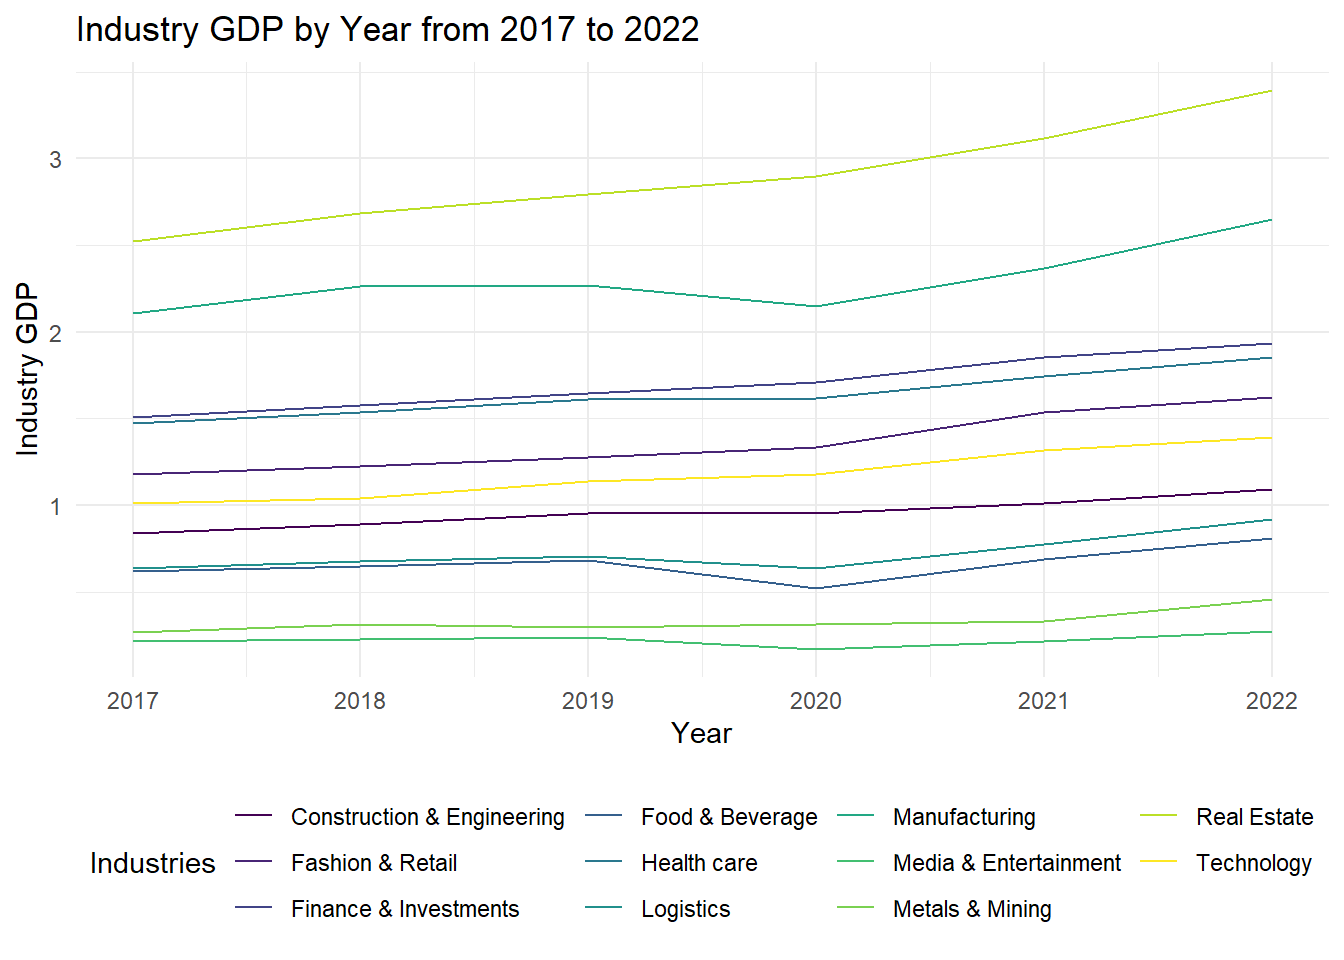
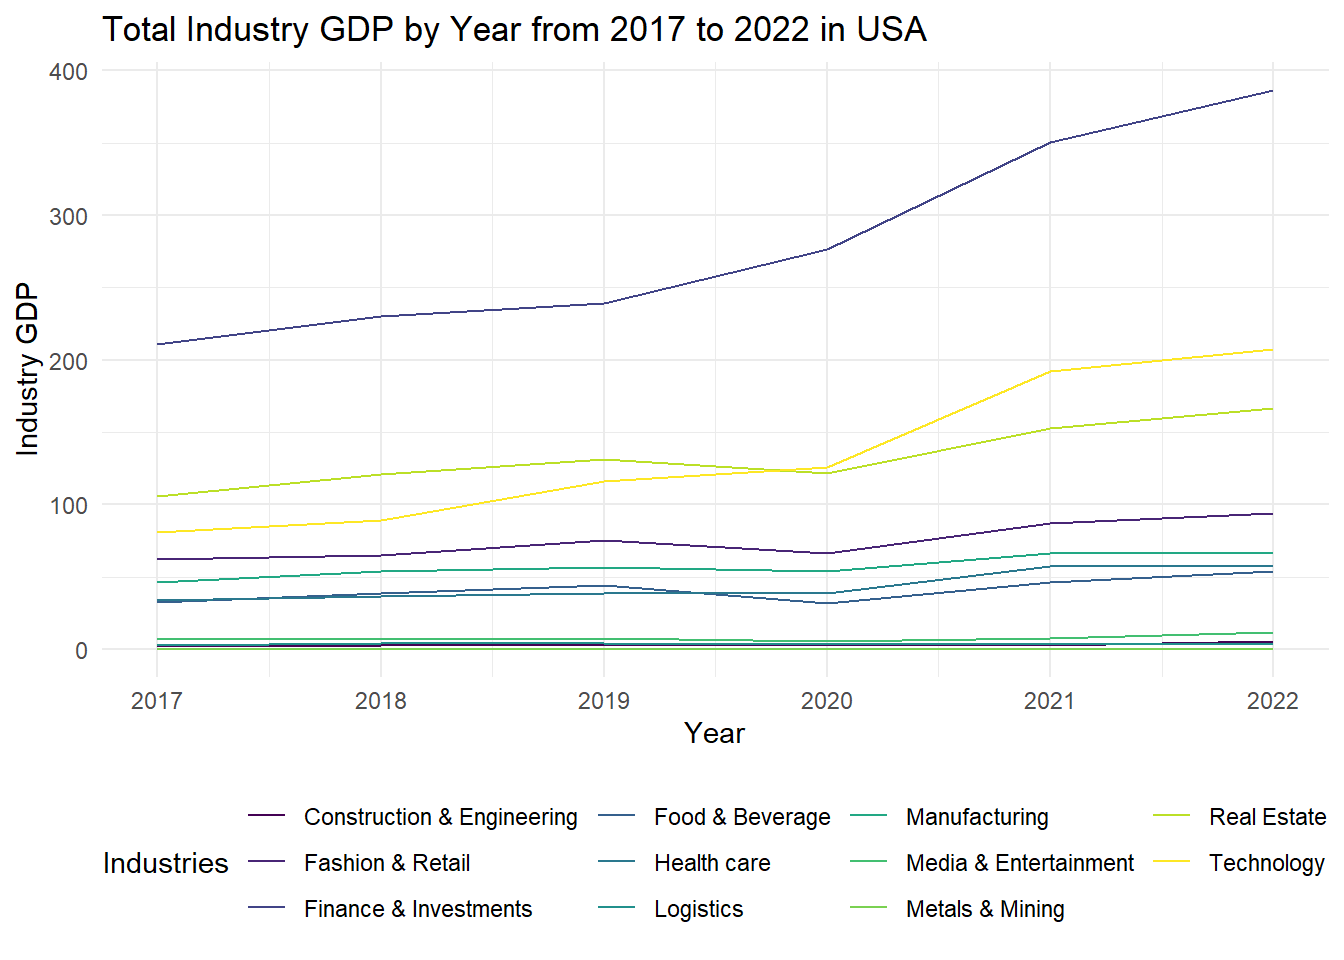
gender start from 2017 to 2010

diff --git a/docs/time_data.html b/docs/time_data.html
@@ -446,6 +446,7 @@ total_net_worth_by_year_country &lt;- top_countries_data %&gt;%
 # plot
 ggplot(total_net_worth_by_year_country, aes(x = year, y = total_net_worth, group = country_of_citizenship, color = country_of_citizenship)) +
   geom_line() +
+  theme_minimal() +
   labs(title = &quot;Total Net Worth of billionaire by Top 5 Countries from 2010 to 2023&quot;,
        x = &quot;Year&quot;, y = &quot;Total Net Worth (Billions)&quot;,
        color = &quot;Country of Citizenship&quot;)</code></pre>
@@ -454,18 +455,19 @@ ggplot(total_net_worth_by_year_country, aes(x = year, y = total_net_worth, group
 </div>
 <div id="gender" class="section level2">
 <h2>Gender</h2>
-<pre class="r"><code>billionaires_filtered &lt;- billionaire_gdp_indus_usa %&gt;%
-  filter(year &gt;= 2017 &amp; year &lt;= 2022) %&gt;%
-  na.omit()
+<pre class="r"><code>billionaires_filtered &lt;- billionaire_gdp %&gt;%
+  filter(year &gt;= 2010 &amp; year &lt;= 2022) %&gt;%  na.omit()
 
 average_net_worth_by_year_gender &lt;- billionaires_filtered %&gt;%
   group_by(year, gender) %&gt;%
-  summarise(average_net_worth = mean(net_worth, na.rm = TRUE))
+  summarise(average_net_worth = sum(net_worth, na.rm = TRUE))
+
+
 
 ggplot(average_net_worth_by_year_gender, aes(x = year, y = average_net_worth, color = gender)) +
   geom_line() +
   theme_minimal() +
-  labs(title = &quot;Average Net Worth by Gender from 2017 to 2022&quot;,
+  labs(title = &quot;Total Net Worth by Gender from 2017 to 2022&quot;,
        x = &quot;Year&quot;, y = &quot;Average Net Worth (in billions)&quot;,
        color = &quot;Gender&quot;)</code></pre>
 <p><img src="time_data_files/figure-html/ave_net_worth%20by%20gender-1.png" width="672" /></p>
@@ -484,12 +486,12 @@ net worth and ranking of billionaires over time.</p>
 
 average_gdp_by_year_industry &lt;- data_filtered %&gt;%
   group_by(year, industries) %&gt;%
-  summarise(average_industry_gdp = mean(industry_gdp, na.rm = TRUE))
+  summarise(average_industry_gdp = sum(industry_gdp, na.rm = TRUE))
 
 average_gdp_by_year_industry |&gt; 
   ggplot(aes(x = year, y = average_industry_gdp, group = industries, color = industries)) +
     geom_line() +
-    labs(title = &quot;Industry GDP by Year from 2017 to 2022&quot;,
+    labs(title = &quot;Total Industry GDP by Year from 2017 to 2022 in USA&quot;,
          x = &quot;Year&quot;, y = &quot;Industry GDP&quot;,
          color = &quot;Industries&quot;)</code></pre>
 <p><img src="time_data_files/figure-html/US%20industry%20gdp%20overtime-1.png" width="672" /></p>
@@ -521,9 +523,9 @@ ggplot(top_cities_by_year, aes(x = year, y = total_net_worth, group = city_of_re
        x = &quot;Year&quot;, y = &quot;Total Net Worth (Billions)&quot;,
        color = &quot;City of Residence&quot;) +
   theme(legend.position = &quot;bottom&quot;)</code></pre>
-<p><img src="time_data_files/figure-html/net_worth%20vs%20cities%20overtime-1.png" width="672" />
-Here are the top 5, and there are indeed 5 more. This is because in some
-years, the total city of net worth is surpassed by others.</p>
+<p><img src="time_data_files/figure-html/net_worth%20vs%20cities%20overtime-1.png" width="672" /></p>
+<p>Here are the top 5, and there are indeed 5 more. This is because in
+some years, the total city of net worth is surpassed by others.</p>
 </div>
 <div id="count-self_made-over-time" class="section level2">
 <h2>count self_made over time</h2>
